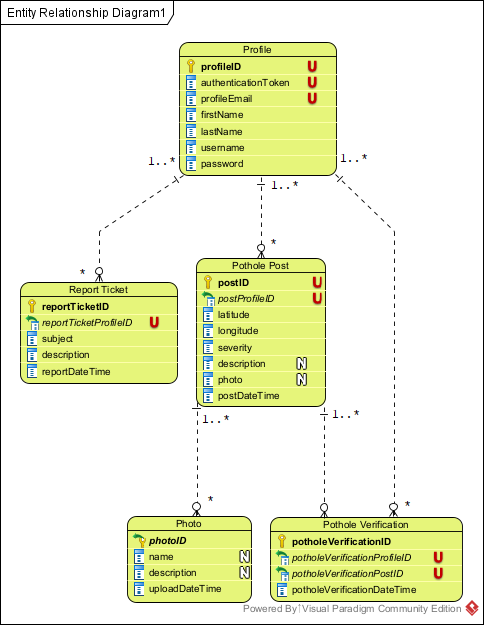
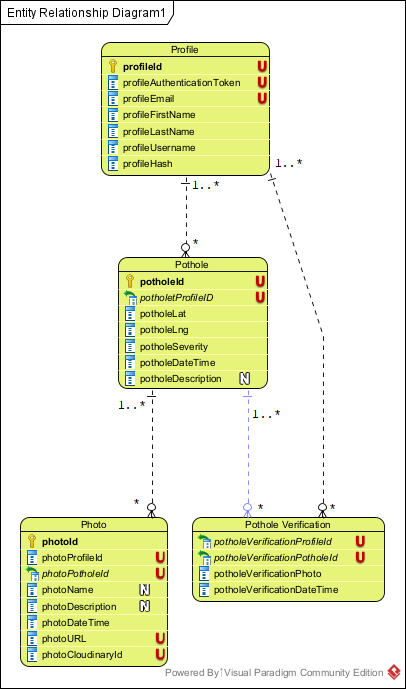
Corrected conceptual model and ERD, changed finn.html interaction flow.

diff --git a/documentation/finn.html b/documentation/finn.html
@@ -49,20 +49,22 @@
 
 <h1>Interaction Flow:</h1>
 <ol>
-    <li>Finn clicks "Add Pothole" button.</li>
-    <li>Website prompts user to drag and drop the pin to the location of the pothole.</li>
-    <li>Finn drops a pin on the map of the pothole's location.</li>
+    <li>Finn clicks "Login" drop-down.</li>
+    <li>Website opens login drop-down, prompts user to enter their Username and Password.</li>
+    <li>Finn enters his Username and Password and presses the "Login" button.</li>
+    <li>Website authenticates user's login credentials, and refreshes the webpage logged into the user account.</li>
+    <li>Finn clicks the "Add Pothole" button.</li>
+    <li>Website prompts user to click the location of the pothole on the map.</li>
+    <li>Finn clicks the pothole's location on the map.</li>
     <li>Website navigates to the add pothole form page.</li>
     <li>Finn clicks the "Severe 3+ button".</li>
     <li>Website highlights the "Severe 3+" option.</li>
     <li>Finn clicks the "Upload a photo" button.</li>
-    <li>Website asks if user will be uploading via camera or photo album.</li>
-    <li>Finn clicks upload via camera.</li>
-    <li>Website opens the camera application.</li>
-    <li>Finn takes a picture of the pothole and clicks the "Confirm" button.</li>
-    <li>Website uploads photo to the "Add Pothole" form.</li>
-    <li>Finn clicks "Done" button.</li>
-    <li>Website displays a severity symbol on the uploaded pothole location.</li>
+    <li>Website opens a window for the user to specify photo location.</li>
+    <li>Finn enters photo location.</li>
+    <li>Website uploads photo.</li>
+    <li>Finn clicks the "Confirm" button.</li>
+    <li>Website navigates back to home page displaying a severity symbol on the uploaded pothole location.</li>
 </ol>
 <p><a href="./index.html">Home</a></p>
 </body>

diff --git a/documentation/conceptual-model.md b/documentation/conceptual-model.md
@@ -1,45 +1,40 @@
 ## Entities
 ### Profile
-* profileID (primary key)
-* autenticationToken
+* profileId (primary key)
+* profileAuthenticationToken
 * profileEmail
-* firstName
-* lastName
-* username
-* password
+* profileFirstName
+* profileLastName
+* profileUsername
+* profileHash
 
-### Pothole Post
-* potholePostID (primary key)
-* postUserID (foreign key)
-* latitude
-* longitude
-* severity
-* postDateTime
-* photo
-* description
+### Pothole
+* potholeId (primary key)
+* potholeProfileId (foreign key)
+* potholeLat
+* potholeLng
+* potholeSeverity
+* potholeDateTime
+* potholeDescription
 
 ### Photo
-* photoID (primary key)
-* name
-* description
-* uploadDateTime
+* photoId (primary key)
+* photoProfileId (foreign key)
+* photoPotholeId (foreign key)
+* photoName
+* photoDescription
+* photoDateTime
+* photoURL
+* photoCloudinaryId
 
 ### Pothole Verification
-* potholeVerificationID (primary key)
 * potholeVerificationProfileID (foreign key)
 * potholeVerificationPotholeID (foreign key)
-* potholeVerificationTimestamp
-
-### Report Ticket
-* reportTicketID (primary key)
-* reportTicketProfileID (foreign key)
-* subject
-* description
-* reportDateTime
+* potholeVerificationPhoto
+* potholeVerificationDateTime
 
 ## Multiplicity
-- One to many profiles can have many posts
-- One to many profiles can submit many report tickets
+- One to many profiles can have many potholes
 - One to many profiles can verify pothole posts
 - One to many pothole posts can have many photos
 - One to many pothole posts can have many pothole verifications
